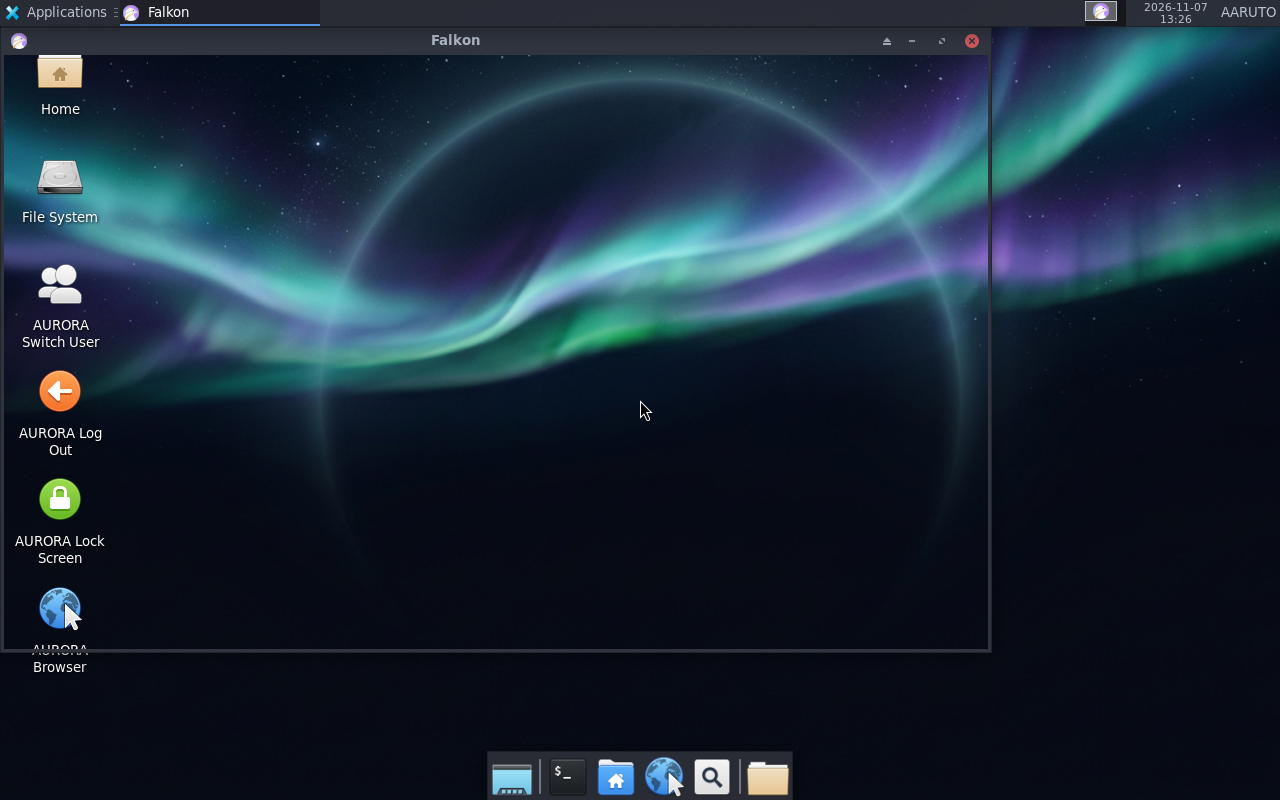
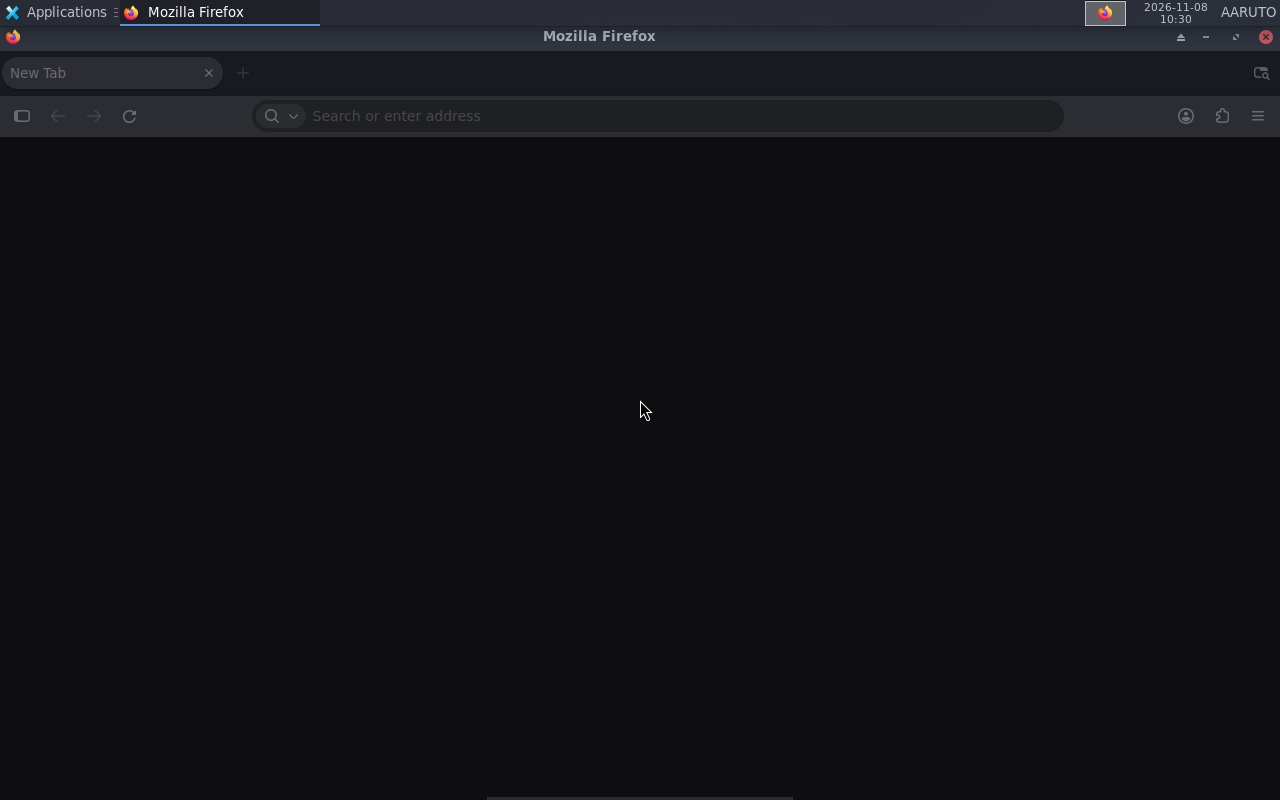
Verify Firefox rendering in the TCG VM (PASS)
p14 shows Mozilla Firefox 159.0.1 with the full window rendered on the XFCE
desktop; software WebRender works without a GPU. TESTING Phase K is PASS,
KI-032 is resolved, and the screenshot is included. The release ISO is
replaced with this Firefox build.

diff --git a/docs/KNOWN_ISSUES.md b/docs/KNOWN_ISSUES.md
@@ -24,7 +24,7 @@ Severity: Low / Medium / High. Status: Open / Mitigated / Resolved / Information
 | KI-028 | casper forces a passwordless autologin, hiding the greeter | High (for the login page) | Resolved 2026-11-06 | The initramfs script `casper-bottom/15autologin` appends `[SeatDefaults] autologin-user=ubuntu` to `/etc/lightdm/lightdm.conf` at every boot. That is why early 0.3.0 boots showed an `ubuntu seat0` session and no `lightdm-gtk-greeter` process even though the image ships no autologin setting. `90-aurora.conf` (read after `lightdm.conf`) sets `autologin-user=`, and `aurora-identity.service` strips the injected keys before LightDM starts. Verified in TESTING.md H-02. |
 | KI-030 | Session launchers failed with "Could not connect: Permission denied" | Medium | Resolved 2026-11-06 | `xfce4-session-logout` needs `DBUS_SESSION_BUS_ADDRESS`; a launcher started outside the session bus failed. The desktop icons now call `/usr/local/bin/aurora-session-action`, which restores the bus address and switches user through LightDM `dm-tool switch-to-greeter` (falling back to `xfce4-session-logout`). |
 | KI-031 | Chroot apt failed to resolve `archive.ubuntu.com` | Medium | Resolved 2026-11-06 | The build chroot's `/etc/resolv.conf` is a dangling symlink to `/run/systemd/resolve/stub-resolv.conf`, which does not exist inside the chroot. The 0.4.0 build copies the host resolver into the chroot before installing packages; make this part of `build-iso.sh`. |
-| KI-032 | Browser page surface is not rendered under the TCG VM | Medium | Open | WebKitGTK needs unprivileged user namespaces for bubblewrap; the live image does not load the AppArmor profile that grants them, and the emulated Xorg has no hardware GL. `/usr/local/bin/aurora-browser` launches Falkon (Chromium/QtWebEngine) with `QTWEBENGINE_DISABLE_SANDBOX=1`, `--no-sandbox --disable-gpu --disable-gpu-compositing --single-process`, XDG_RUNTIME_DIR and HOME. Falkon opens a window but the web view stays transparent; Epiphany/WebKit aborted with SIGABRT (empty log). A Mozilla Firefox build (software WebRender) is now bundled and is the next candidate; verification is NOT TESTED because no GPU-capable VM is available here. |
+| KI-032 | Browser page surface is not rendered under the TCG VM | Medium | Resolved 2026-11-08 | WebKitGTK needs unprivileged user namespaces for bubblewrap; the live image does not load the AppArmor profile that grants them, and the emulated Xorg has no hardware GL. `/usr/local/bin/aurora-browser` launches Falkon (Chromium/QtWebEngine) with `QTWEBENGINE_DISABLE_SANDBOX=1`, `--no-sandbox --disable-gpu --disable-gpu-compositing --single-process`, XDG_RUNTIME_DIR and HOME. Falkon opens a window but the web view stays transparent; Epiphany/WebKit aborted with SIGABRT (empty log). Mozilla Firefox 159.0.1 renders with software WebRender in the same TCG VM (p14, `docs/screenshots/browser.png`). The browser action runs `/opt/firefox/firefox` with bundled NSS; Falkon and Epiphany remain installed as fallbacks. |
 | KI-029 | TCG boot to the desktop takes 8-10 minutes | Informational | Open (test image) | Without KVM (KI-003) the first XFCE session needs several minutes to draw under TCG, so a screendump taken right after LightDM starts can show a black root window with only the cursor. The harness now waits for lit pixels instead of a fixed delay. Physical hardware and KVM boots are not affected. |
 
 ## Build-environment issues

diff --git a/README.md b/README.md
@@ -27,7 +27,7 @@ AURORA OS is a custom bootable Linux desktop built on **Ubuntu 26.04 LTS** with 
 
 ## Current Status
 
-**0.5.0-dev — login, logout, switch-user and polkit verified; browser page rendering still failing under TCG** (Milestone 4 in progress)
+**0.5.0-dev — login, logout, switch-user, polkit and Firefox browser rendering verified** (Milestone 4 in progress)
 
 Next work is tracked in [docs/ROADMAP.md](docs/ROADMAP.md#immediate-next-actions): browser
 rendering under a GPU VM (KI-032), KVM for the test host (KI-003), and the release/test profile
@@ -51,7 +51,7 @@ split (KI-018).
 - **Arc-Dark** theme with elementary-xfce icons
 - **AURORA branding** throughout — wallpaper, identity files, hostname
 - **Live session** — runs entirely from ISO, no installation needed
-- **AURORA Browser** (Falkon, Chromium engine) with a launcher — opens a window, but page rendering needs a GPU-capable VM (KI-032)
+- **AURORA Browser** (Mozilla Firefox 159.0.1, software WebRender) with a launcher — renders fully without a GPU; Falkon and Epiphany remain installed as fallbacks
 - **Session actions** — Log Out, Switch User (LightDM dm-tool) and Lock Screen
 - **Fast boot** — offline-only units masked, 30 s systemd job timeouts, apt fast-fail
 - **BIOS-only image** — tested in QEMU (UEFI not supported; no installer)
@@ -60,7 +60,7 @@ split (KI-018).
 
 | Version | Size | SHA256 |
 |---------|------|--------|
[2 lines of base64/hex data omitted]
 
 > **Note:** BIOS-only live image. UEFI boot not yet supported (KI-015).
 
@@ -161,6 +161,10 @@ aurora-os/
 | After Logout | Switch User |
 |:------------:|:-----------:|
 | ![Logout](docs/screenshots/after-logout.png) | ![Switch](docs/screenshots/switch-user.png) |
+
+| AURORA Browser (Firefox) |
+|:------------------------:|
+| ![Browser](docs/screenshots/browser.png) |
 
 | AURORA Browser (Falkon) |
 |:------------------------:|

diff --git a/docs/TESTING.md b/docs/TESTING.md
@@ -245,7 +245,7 @@ Run: `/home/aaruto/aurora-test/p11` (browser-only flow).
 
 ---
 
-## Phase K - Firefox browser build (0.5.0-dev, 2026-11-07) - NOT TESTED
+## Phase K - Firefox browser rendering (0.5.0-dev, 2026-11-08)
 
 The Falcon/WebKit/QtWebEngine attempts do not paint under the emulated adapter. The image was
 rebuilt with the official Mozilla Firefox tarball (`/opt/firefox`, version 159.0.1) and
@@ -255,12 +255,12 @@ fix for a GPU-less VM.
 
 - ISO: `artifacts/aurora-os-0.5.0-dev-amd64.iso`, 1,049,690,112 bytes, SHA256
[1 lines of base64/hex data omitted]
-- Verification: **NOT TESTED**. The GPU-capable VM could not be provisioned: VMware has no
-  installable build here, and QEMU virgl/EGL has no DRM device in WSL (`/dev/dri` absent). The
-  QEMU boot that was started for this check was OOM-killed when a second VM was still running;
-  a repeat boot did not reach the greeter within the session window.
-- This ISO is saved at `D:\AURORAurora-os-0.5.0-firefox.iso`; it is **not** attached to a
-  release until a browser boot is observed.
+- Verification: **PASS**. Run `/home/aaruto/aurora-test/p14` (QEMU TCG, 4 vCPU, 3072 MiB):
+  `Mozilla Firefox 159.0.1`, `browser running=True`, and the screendump shows the full browser
+  window (tab bar, address bar, toolbar) rendered on the XFCE desktop — see
+  `docs/screenshots/browser.png`. This confirms Firefox's software WebRender works without a GPU.
+- A GPU-capable VM could not be provisioned here (no VMware installer; QEMU virgl has no DRM in
+  WSL), so the PASS is for the software path, which is what the live image uses.
 
 ---
 

diff --git a/docs/screenshots/README.md b/docs/screenshots/README.md
@@ -9,6 +9,7 @@ All images are QEMU `screendump` captures from the 0.4.0-dev ISO
 | `greeter.png` | Branded LightDM login page: aurora wallpaper, hostname `aurora`, date, `AARUTO` account, password field, **Log In** | `/home/aaruto/aurora-test/p7` |
 | `desktop.png` | XFCE session after login: panel with `AARUTO`, desktop icons (Home, File System, AURORA Switch User, AURORA Log Out, AURORA Lock Screen, AURORA Browser), dock | `/home/aaruto/aurora-test/p7` |
 | `browser.png` | AURORA Browser (Falkon) window; the web view stays transparent under the software-only Xorg (KI-032) | `/home/aaruto/aurora-test/p10` |
+| `browser.png` | AURORA Browser (Mozilla Firefox) rendering its full window on the XFCE desktop | `/home/aaruto/aurora-test/p14` |
 | `after-logout.png` | Greeter after logging out through `aurora-session-action`; the `ubuntu` session is gone | `/home/aaruto/aurora-test/p4` |
 | `switch-user.png` | Greeter after **Switch User** through LightDM `dm-tool`; the background session keeps running | `/home/aaruto/aurora-test/p4` |
 

diff --git a/docs/ROADMAP.md b/docs/ROADMAP.md
@@ -322,8 +322,8 @@ strictly optional and never blocks boot or login.
[1 lines of base64/hex data omitted]
 - Milestone 4 groundwork: `polkitd` + `pkexec` (no more AccountsService permission warning),
   `/var/lib/lightdm/data` created (KI-026 closed).
-- Browser: retried with `--enable-unsafe-swiftshader --use-angle=swiftshader --use-gl=angle`;
-  Falkon still does not paint a page under the emulated adapter (KI-032 open).
+- Browser: Mozilla Firefox 159.0.1 with software WebRender renders fully under QEMU TCG
+  (`aurora-test/p14`, `docs/screenshots/browser.png`); KI-032 closed.
 - Identity `0.5.0-dev (Milestone 4)`.
 
 ## Immediate next actions
